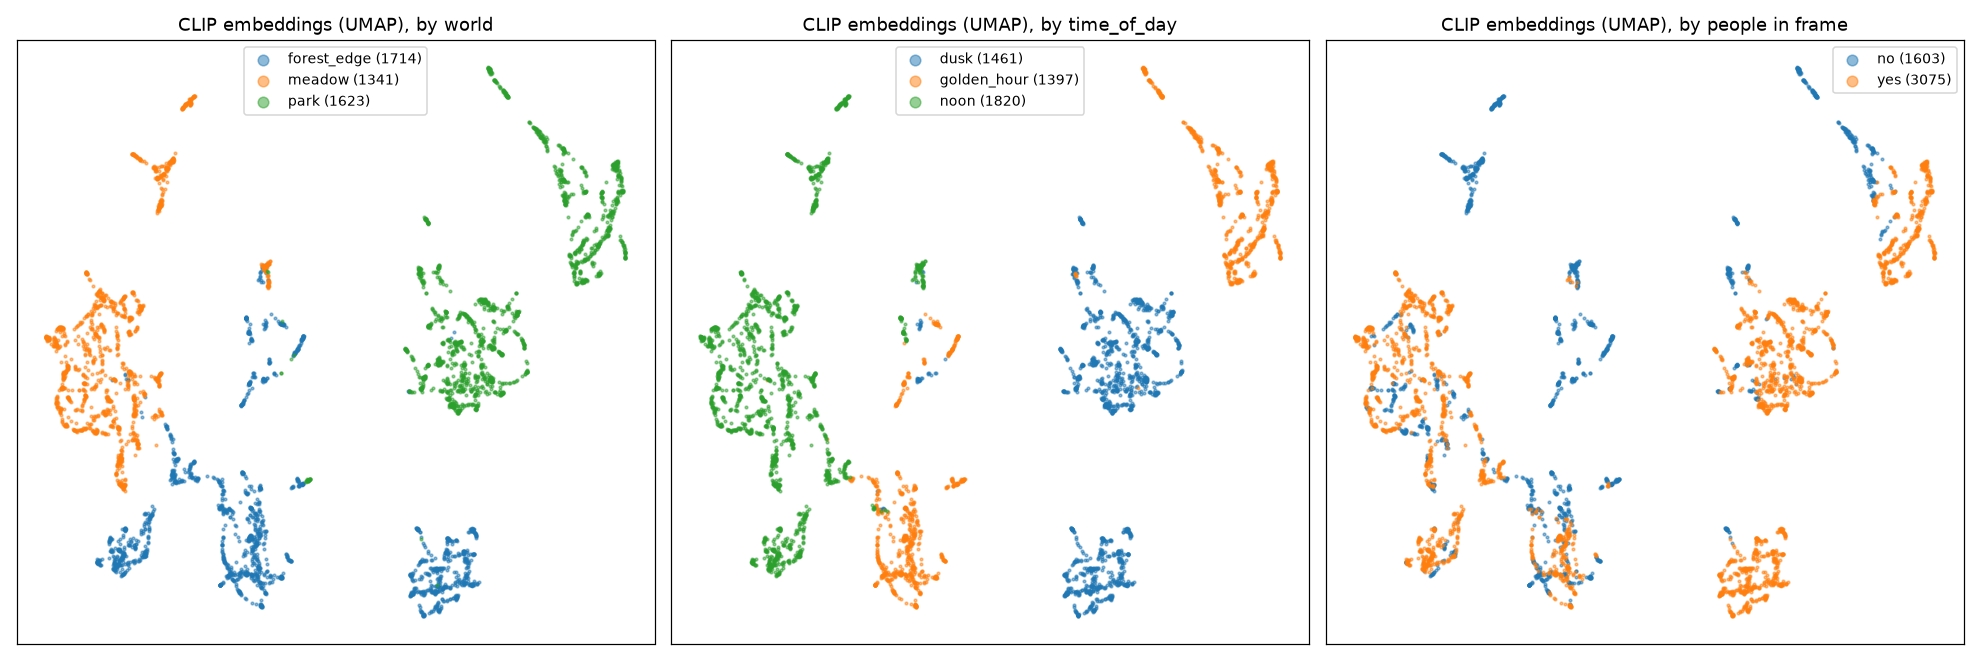
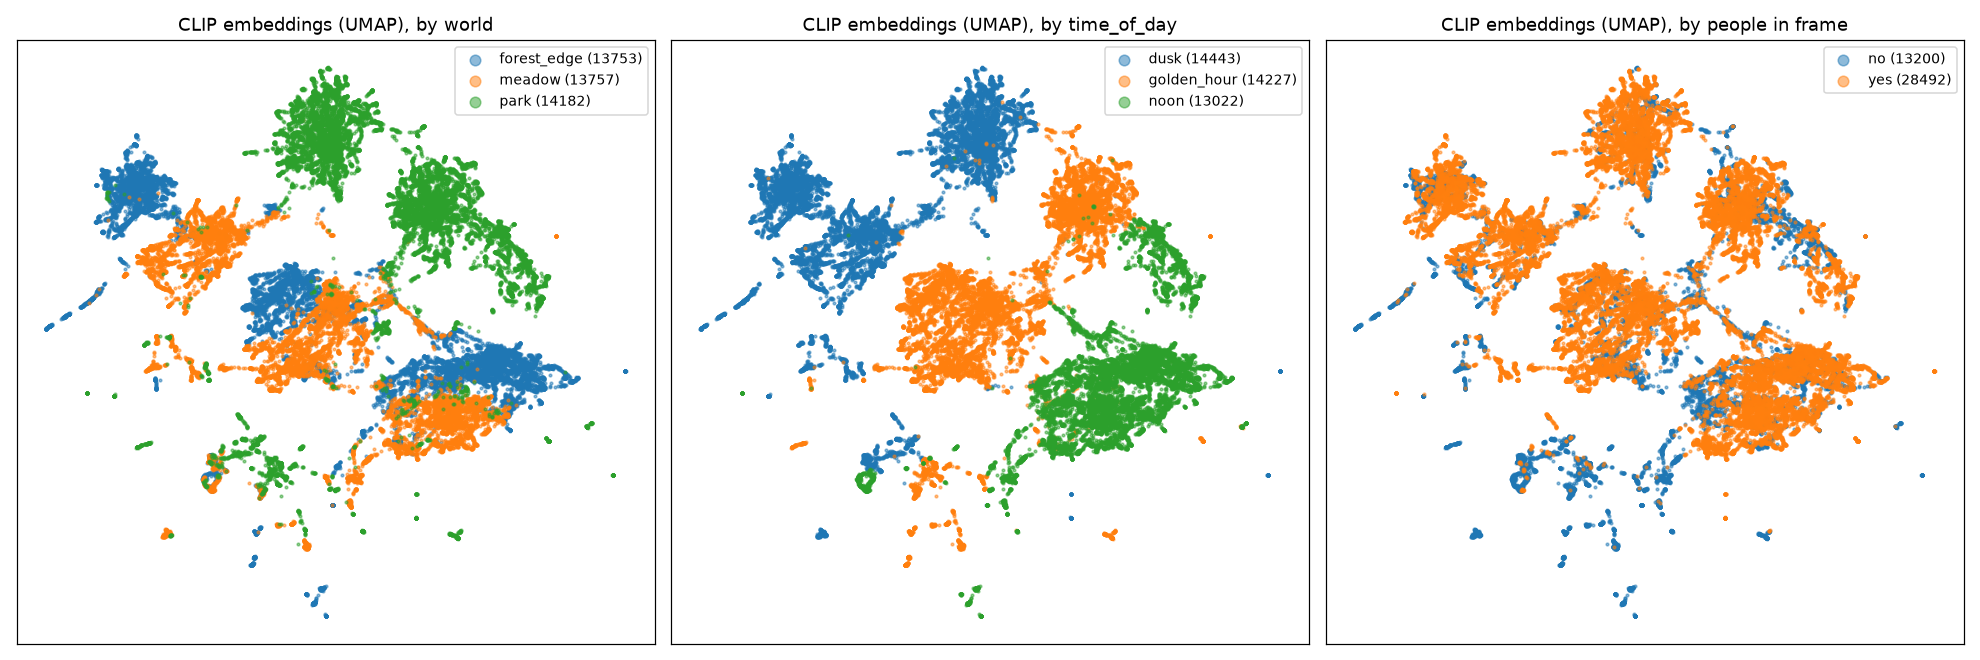
v1 dataset recorded and curated: 75 of 75 episodes at commit 33d89df
The batch ran 6.2 hours unattended with no failures, timeouts or
retries; 225 of 225 people were reported by the oracle. Manifest in
docs/results/v1.manifest.csv.

The near-duplicate rule (largest threshold at which under 1 percent of
removed frames change the people count) gives 0.004 on the v1 data
instead of the pilot's 0.006.

train-v1 24,667 frames (54 episodes), val-v1 2,861 (6), sim-test 7,453
(15); no world seed is shared between splits.

diff --git a/sardrone/fo/curate.py b/sardrone/fo/curate.py
@@ -40,10 +40,11 @@ DUPLICATE_TAG = "duplicate"
 
 # Cosine distance (1 - cosine similarity; 0 = identical direction) below
 # which two frames of one episode count as the same picture. Chosen from a
-# sweep on the pilot data (docs/DEVLOG.md, Phase 2E): the largest value at
-# which under 1 % of the removed frames show a different number of people
-# than the frame kept in their place.
-DUPLICATE_THRESHOLD = 0.006
+# sweep (docs/DEVLOG.md): the largest value at which under 1 % of the
+# removed frames show a different number of people than the frame kept in
+# their place. On the pilot data that was 0.006; on the v1 data 0.006 gave
+# 1.8 %, and the rule gives 0.004 (0.7 %).
+DUPLICATE_THRESHOLD = 0.004
 SWEEP_THRESHOLDS = (0.002, 0.003, 0.004, 0.006, 0.01, 0.015)
 
 SMALL_BOX_PX = 16.0  # "small" person: longer side of the box below this
